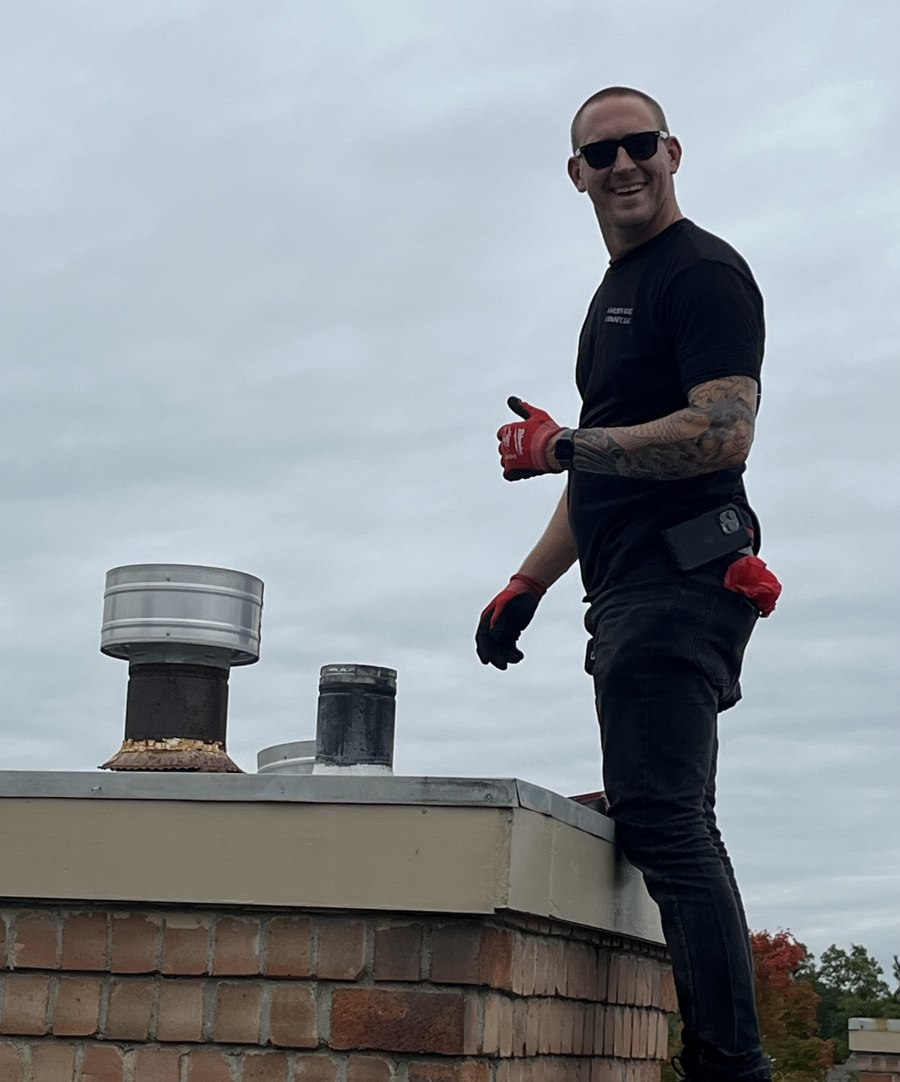
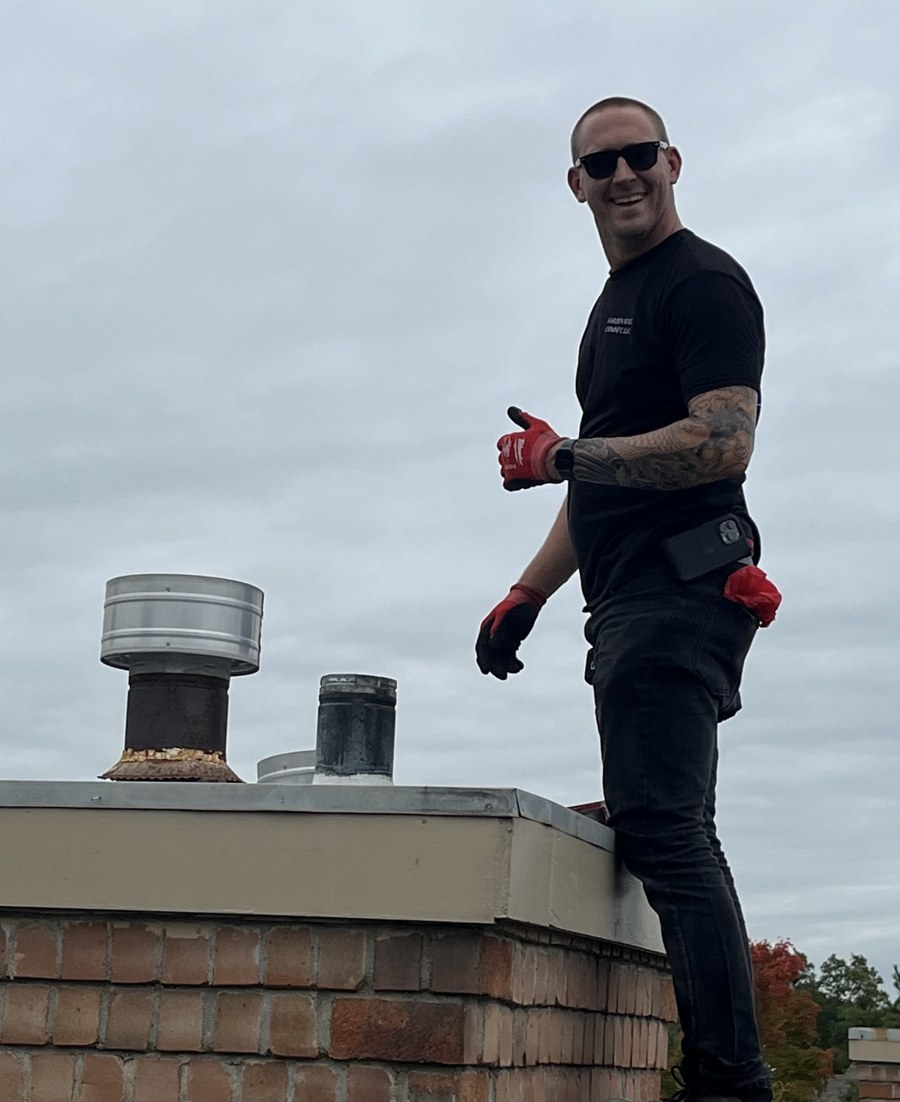
Re-center roof-tech & window-tech gallery photos (object-position) so subjects aren't cut off

diff --git a/index.html b/index.html
@@ -305,8 +305,8 @@
       <img src="assets/img/Chimney-Inspection-1.jpg" alt="Chimney inspection">
       <img src="assets/img/Chimney-Repair.jpg" alt="Chimney repair">
       <img src="assets/img/Technician-Repairing-Fireplace.jpg" alt="Technician repairing fireplace">
-      <img src="assets/img/Dan-Barisonek.jpg" alt="Owner Dan Barisonek">
-      <img src="assets/img/Garden-State-Roof-Tech.jpg" alt="Garden State Chimney technician on a rooftop chimney">
+      <img class="g-window" src="assets/img/Dan-Barisonek.jpg" alt="Garden State Chimney technician giving a thumbs up">
+      <img class="g-roof" src="assets/img/Garden-State-Roof-Tech.jpg" alt="Garden State Chimney technician on a rooftop chimney">
     </div>
   </div>
 </section>

diff --git a/assets/css/style.css b/assets/css/style.css
@@ -158,6 +158,9 @@ figure img { width: 100%; height: auto; max-height: 320px; object-fit: contain; 
 .gallery { display:grid; grid-template-columns: repeat(4,1fr); gap:14px; }
 .gallery img { height: 180px; width:100%; object-fit: cover; object-position: center; border-radius: 8px; box-shadow: var(--shadow); transition: transform .25s; }
 .gallery img:hover { transform: scale(1.03); }
+/* Keep the subject's head in frame for these two portrait gallery photos */
+.gallery img.g-roof { object-position: 75% 28%; }
+.gallery img.g-window { object-position: center 22%; }
 
 /* ---------- Breadcrumb / page hero ---------- */
 .page-hero { background: var(--ink); color:#fff; position:relative; overflow:hidden; }